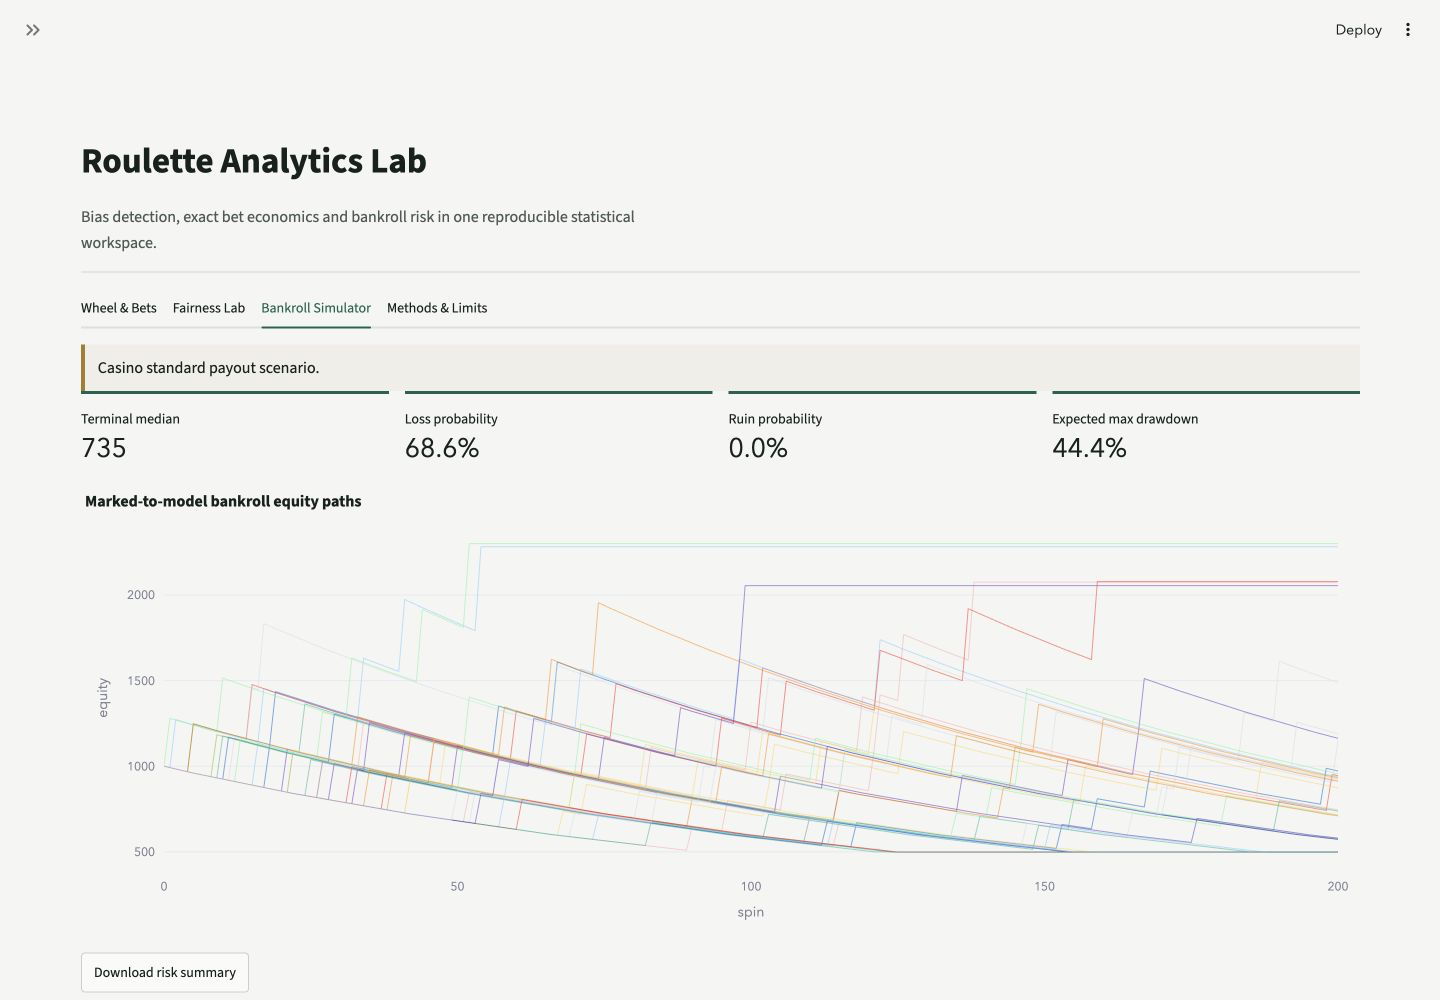
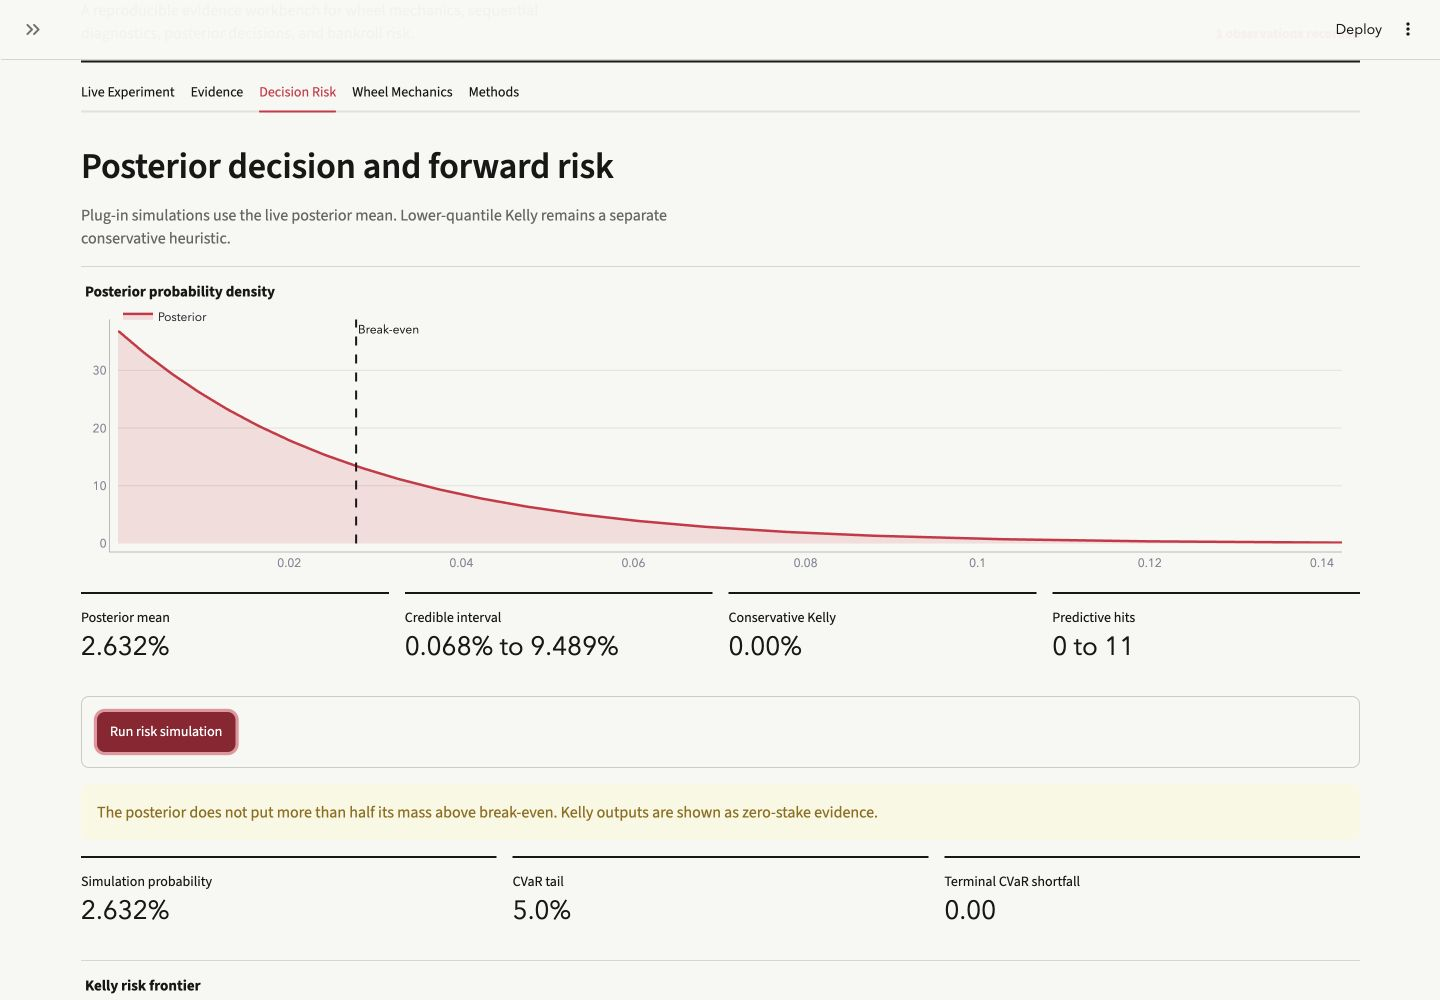
test: verify the v2 portfolio experience

diff --git a/tests/test_publication.py b/tests/test_publication.py
@@ -335,12 +335,13 @@ def test_release_visual_evidence_has_expected_dimensions_and_scope():
 
     record = (ROOT / "docs" / "visual_qa.md").read_text(encoding="utf-8")
     for phrase in [
-        "Wheel & Bets",
-        "Fairness Lab",
-        "Bankroll Simulator",
-        "Methods & Limits",
+        "Live Experiment",
+        "Evidence",
+        "Decision Risk",
+        "Wheel Mechanics",
+        "Methods",
         "390x844",
         "14 pages",
-        "WebSocket",
+        "console",
     ]:
         assert phrase in record

diff --git a/docs/deliverables_checklist.md b/docs/deliverables_checklist.md
@@ -1,30 +1,31 @@
 # Project 1 Deliverables Checklist
 
-This checklist maps the execution manual's Project 1 expectations to repository evidence.
+This manual matrix is limited to **Project 1: Roulette Analytics Lab**. Later portfolio projects are explicitly out of scope for this release and do not supply evidence for any row below.
 
-| Requirement | Deliverable | Concrete evidence | Status |
-| --- | --- | --- | --- |
-| Python reimplementation | Tested package and scripts | [`src/roulette_lab`](../src/roulette_lab), [`scripts`](../scripts), [`tests`](../tests) | Complete |
-| Source and personal contribution boundary | Independent implementation from the mathematical specification | [`provenance.md`](provenance.md) | Complete |
-| Kelly Criterion | Conditional full, half, and quarter Kelly | [`bets.py`](../src/roulette_lab/bets.py), [`bankroll.py`](../src/roulette_lab/bankroll.py), [`app.py`](../app.py) | Complete |
-| Chi-squared testing | Asymptotic and Monte Carlo global tests | [`statistics.py`](../src/roulette_lab/statistics.py), [`roulette_analytics.ipynb`](../notebooks/roulette_analytics.ipynb) | Complete |
-| Selection correction | Naive, Bonferroni, and maximum-count family-wise results | [`bias_tests.csv`](../outputs/tables/bias_tests.csv), [`technical_blog.md`](technical_blog.md) | Complete |
-| Random walk simulation | Running frequency and bankroll paths | [`03_lln_convergence.png`](../outputs/figures/03_lln_convergence.png), [`06_bankroll_risk.png`](../outputs/figures/06_bankroll_risk.png) | Complete |
-| Adjustable dashboard controls | Bankroll, odds, stop-loss, take-profit, paths, spins, seed, and strategy | [`app.py`](../app.py), [`dashboard.py`](../src/roulette_lab/dashboard.py) | Complete |
-| Real-time curves | Probability, residual, and bankroll charts | [`dashboard-desktop.png`](assets/dashboard-desktop.png), [`visual_qa.md`](visual_qa.md) | Complete |
-| Responsive design | Desktop and 390x844 evidence | [`dashboard-desktop.png`](assets/dashboard-desktop.png), [`dashboard-mobile.png`](assets/dashboard-mobile.png) | Complete |
-| Technical blog | Mathematics, implementation, results, and limits | [`technical_blog.md`](technical_blog.md) | Complete |
-| Full technical report | 4,500-5,000 prose words and 13-16 page A4 PDF | [`technical_report.md`](../report/technical_report.md), [`technical_report.pdf`](../report/technical_report.pdf) | Complete |
-| GitHub-ready repository | README, licence, lock file, commands, CI | [`README.md`](../README.md), [`LICENSE`](../LICENSE), [`requirements-lock.txt`](../requirements-lock.txt), [`reproducibility.yml`](../.github/workflows/reproducibility.yml) | Complete |
-| Code reproducibility | Fixed seeds and permanent cross-artifact checks | [`run_analysis.py`](../scripts/run_analysis.py), [`verify_artifacts.py`](../scripts/verify_artifacts.py) | Complete |
-| Data | Fair and biased teaching datasets with strict schema | [`example_unbiased_spins.csv`](../data/example_unbiased_spins.csv), [`example_biased_spins.csv`](../data/example_biased_spins.csv), [`README`](../data/README.md) | Complete |
-| Machine-readable results | Existing seven tables and six figures remain. The final release contains eleven tables and ten figures. | [`outputs/tables`](../outputs/tables), [`outputs/figures`](../outputs/figures) | Complete |
-| Correct interpretation | Negative expectation, post-selection bias, and probability uncertainty | [`technical_report.md`](../report/technical_report.md), [`technical_blog.md`](technical_blog.md) | Complete |
-| AI capability evidence | Assisted workflow plus verification boundary | [`ai_workflow.md`](ai_workflow.md) | Complete |
-| Application value | CV, PS, interview, contribution, and programme maps | [`application_materials.md`](application_materials.md) | Complete |
-| Responsible framing | No profit promise and explicit limitations | [`README.md`](../README.md), [`technical_report.md`](../report/technical_report.md), [`app.py`](../app.py) | Complete |
-| Online demonstration | Task 7 release checklist item | [Streamlit deployment target](https://roulette-analytics-lab.streamlit.app/) | Pending public-access verification |
+Existing seven tables and six figures remain. The final release contains eleven tables and ten figures.
+
+| Requirement | Code | Test | Output | Report | Dashboard | Status |
+| --- | --- | --- | --- | --- | --- | --- |
+| Python reimplementation | [package](../src/roulette_lab) | [test suite](../tests) | [tables](../outputs/tables) | [research report](../report/technical_report.pdf) | [Methods](../app.py) | Complete |
+| Contribution boundary | [provenance](provenance.md) | [publication test](../tests/test_publication.py) | [provenance checksum](provenance.md) | [research question](../report/technical_report.pdf) | [Methods](../app.py) | Complete |
+| Kelly Criterion | [bets](../src/roulette_lab/bets.py) | [bet tests](../tests/test_bets.py) | [kelly sensitivity](../outputs/tables/kelly_sensitivity.csv) | [posterior decisions](../report/technical_report.pdf) | [Decision Risk](../app.py) | Complete |
+| Chi-squared testing | [statistics](../src/roulette_lab/statistics.py) | [statistics tests](../tests/test_statistics.py) | [bias tests](../outputs/tables/bias_tests.csv) | [fixed-horizon inference](../report/technical_report.pdf) | [Evidence](../app.py) | Complete |
+| Selection correction | [dashboard](../src/roulette_lab/dashboard.py) | [dashboard tests](../tests/test_dashboard.py) | [bias tests](../outputs/tables/bias_tests.csv) | [selection correction](../report/technical_report.pdf) | [Evidence](../app.py) | Complete |
+| Random-walk and LLN simulation | [simulation](../src/roulette_lab/simulation.py) | [simulation tests](../tests/test_simulation.py) | [LLN figure](../outputs/figures/03_lln_convergence.png) | [probability contract](../report/technical_report.pdf) | [Live Experiment](../app.py) | Complete |
+| Sequential evidence and CUSUM | [sequential](../src/roulette_lab/sequential.py) | [sequential tests](../tests/test_sequential.py) | [sequential evidence](../outputs/tables/sequential_evidence.csv) | [sequential evidence](../report/technical_report.pdf) | [Evidence](../app.py) | Complete |
+| Posterior decision and CVaR | [decision](../src/roulette_lab/decision.py) | [decision tests](../tests/test_decision.py) | [posterior edge](../outputs/tables/posterior_edge.csv) | [posterior decisions](../report/technical_report.pdf) | [Decision Risk](../app.py) | Complete |
+| Adjustable controls | [app controls](../app.py) | [app tests](../tests/test_app.py) | [risk frontier](../outputs/tables/risk_frontier.csv) | [software design](../report/technical_report.pdf) | [live controls](assets/live-experiment.png) | Complete |
+| Live experiment and wheel | [experiment](../src/roulette_lab/experiment.py) | [component tests](../tests/test_roulette_component.py) | [history CSV](../data/example_unbiased_spins.csv) | [software design](../report/technical_report.pdf) | [settled wheel](assets/live-experiment.png) | Complete |
+| Real-time charts and downloads | [dashboard figures](../app.py) | [dashboard tests](../tests/test_dashboard.py) | [figures](../outputs/figures) | [risk frontier](../report/technical_report.pdf) | [desktop QA](assets/dashboard-desktop.png) | Complete |
+| Responsive design | [responsive CSS](../app.py) | [app tests](../tests/test_app.py) | [mobile capture](assets/dashboard-mobile.png) | [software design](../report/technical_report.pdf) | [visual QA](visual_qa.md) | Complete |
+| Teaching data | [strict CSV IO](../src/roulette_lab/io.py) | [IO tests](../tests/test_io_and_power.py) | [fair CSV](../data/example_unbiased_spins.csv) | [experimental design](../report/technical_report.pdf) | [CSV import](app.py) | Complete |
+| Notebook and report | [builders](../scripts) | [publication tests](../tests/test_publication.py) | [notebook](../notebooks/roulette_analytics.ipynb) | [PDF](../report/technical_report.pdf) | [Methods](../app.py) | Complete |
+| Reproducibility | [analysis runner](../scripts/run_analysis.py) | [artifact verifier](../scripts/verify_artifacts.py) | [all outputs](../outputs) | [methods](../report/technical_report.pdf) | [Methods](../app.py) | Complete |
+| Responsible framing | [dashboard copy](../app.py) | [publication tests](../tests/test_publication.py) | [methods output](../outputs/tables/posterior_edge.csv) | [limitations](../report/technical_report.pdf) | [Methods](../app.py) | Complete |
+| AI workflow | [workflow record](ai_workflow.md) | [publication tests](../tests/test_publication.py) | [review evidence](ai_workflow.md) | [provenance](../report/technical_report.pdf) | [Methods](../app.py) | Complete |
+| Application value | [application materials](application_materials.md) | [publication tests](../tests/test_publication.py) | [portfolio evidence](application_materials.md) | [application value](../report/technical_report.pdf) | [Methods](../app.py) | Complete |
+| Online demonstration | [deployment configuration](../.streamlit) | [app tests](../tests/test_app.py) | [QA screenshots](assets) | [software design](../report/technical_report.pdf) | [Streamlit target](https://roulette-analytics-lab.streamlit.app/) | Task 7 release checklist item; pending public-access verification |
 
 ## Release gate
 
-The release is ready only when all automated tests pass, the notebook executes, publication outputs regenerate without drift, the PDF renders cleanly, desktop and mobile dashboard views are checked, the public dashboard is reachable, and the final ZIP passes `unzip -t`. The external manifest records the archive checksum without creating a circular checksum inside the ZIP. The online demonstration remains pending public-access verification in Task 7 and is therefore still a release checklist item.
+Task 7 requires a clean deterministic rebuild, rendered PDF inspection, exact desktop and mobile captures, an anonymous public deployment check, and a `unzip -t` validated V2 archive. The external manifest remains outside the archive so its checksum is not circular.

diff --git a/docs/visual_qa.md b/docs/visual_qa.md
@@ -1,38 +1,40 @@
 # Visual QA Record
 
-## Dashboard desktop check
+## Local release check
 
-The final desktop review used a 1440x1000 viewport against the local Streamlit app on 13 September 2026. The four tabs were opened in sequence:
+The Task 7 review ran against the local Streamlit application at `http://127.0.0.1:8501/` on 20 September 2026. Browser console capture recorded zero errors and zero warnings. The release screenshots are exact viewport captures:
 
-- **Wheel & Bets:** the European straight-bet view showed a 2.70% standard house edge, expected return `-0.0270`, 35:1 payout, and a nonblank pocket-probability chart.
-- **Fairness Lab:** the built-in biased and unbiased states rendered, then both repository CSV files were uploaded through the visible file control. The unbiased upload selected pocket 32 and the biased upload selected pocket 17. Corrected and naive p-values changed with the source.
-- **Bankroll Simulator:** the estimated win probability was changed from `0.02703` to `0.06000`. The strategy was changed from flat to quarter Kelly, and the terminal metrics plus path chart refreshed.
-- **Methods & Limits:** expectation, maximum-count selection correction, Kelly's conditional assumptions, validation guidance, and the no-profit warning were all visible.
+| Capture | Viewport | Pixel result | Evidence |
+| --- | --- | --- | --- |
+| Desktop dashboard | 1440x1000 | 1,439,903 non-white pixels | [dashboard-desktop.png](assets/dashboard-desktop.png) |
+| Mobile dashboard | 390x844 | 329,159 non-white pixels | [dashboard-mobile.png](assets/dashboard-mobile.png) |
+| Settled live experiment | 1440x1000 | 758,538 dark rotor pixels and 30,647 crimson pixels | [live-experiment.png](assets/live-experiment.png) |
 
-The saved desktop image is `docs/assets/dashboard-desktop.png`. It is a 1440x1000 PNG. No browser console errors were present. One `WebSocket onclose` warning was recorded during a deliberate page reload; the app reconnected and rendered normally.
+## Desktop interaction check
 
-## Dashboard mobile check
+All five tabs rendered and were opened: **Live Experiment**, **Evidence**, **Decision Risk**, **Wheel Mechanics**, and **Methods**. The review also exercised a deterministic single spin, Batch 10, reset, both CSV teaching datasets, history and probability-table downloads, the no-edge decision state, CUSUM no-alarm and alarm states, responsive chart rendering, and Methods content.
 
-The responsive review used a 390x844 device viewport. An initial capture exposed clipped title and notice text, so the mobile CSS was revised to allow normal white-space, `overflow-wrap: anywhere`, smaller metric type, wrapping horizontal metric blocks, and a horizontally scrollable tab list. The final DOM measurements reported a 390-pixel viewport and 390-pixel document width. The title, supporting copy, metrics, scenario notice, and chart stay within the 358-pixel content column.
+- The default seeded single spin settled on `8`, matching `advance_experiment(new_experiment(20260912, 1000.0), ...)`.
+- The visual rotor was nonblank at 1279x466 CSS pixels, displayed all 37 European labels, and had removed its `is-spinning` class after settlement.
+- The six live controls kept identical frame-relative bounds during rotor animation. Browser viewport scrolling changed after Streamlit rerendering, but the controls did not shift relative to the rotor frame.
+- One initial miss produced the visible `No CUSUM alarm has crossed the declared threshold.` state. Importing `data/example_biased_spins.csv` displayed the CUSUM chart's `First alarm` marker. Both `example_unbiased_spins.csv` and `example_biased_spins.csv` displayed successful import states.
+- Running the no-observation/one-miss decision path displayed `The posterior does not put more than half its mass above break-even. Kelly outputs are shown as zero-stake evidence.`
+- Browser download events confirmed both `roulette_history.csv` and `wheel_probabilities.csv` controls.
 
-The final screenshot was captured through Chrome's device emulation after the built-in screenshot transport produced incorrect clipping metadata. It was inspected at original resolution and saved as `docs/assets/dashboard-mobile.png`, a true 390x844 PNG. The fourth tab remains available through the standard horizontal tab scroll on narrow screens; content does not overlap.
+## Mobile check
 
-## Online deployment status
+At exactly 390x844, `documentElement.clientWidth` and `scrollWidth` were both 390. The live layout stacked without document-level horizontal overflow; metric text remained contained; the wheel labels were visible; and the native `Scroll tabs right` control made the horizontally overflowing tab strip accessible, including the Methods tab. The live screenshot records the imported biased state so the high-information metric and chart layout are also represented at mobile width.
 
-The configured Streamlit target is [roulette-analytics-lab.streamlit.app](https://roulette-analytics-lab.streamlit.app/). The current endpoint presents an authentication boundary, so prior owner-session checks do not establish anonymous availability. Public access is pending public-access verification in Task 7. Until that release check runs, repository copy treats the URL as a deployment target rather than a public live demonstration.
+The browser environment did not request reduced motion (`matchMedia('(prefers-reduced-motion: reduce)').matches` was `false`). The component's reduced-motion implementation is covered by `tests/test_roulette_component.py`: its generated markup includes the `prefers-reduced-motion` media query, which removes rotor and ball transitions. This is an accepted environment limitation, not a claim that the browser preference was forced during this capture.
 
 ## PDF check
 
[1 lines of base64/hex data omitted]
+`report/technical_report.pdf` was rebuilt and rendered in full at 144 DPI. `pdfinfo` confirmed 14 unencrypted A4 pages. The report has 14 pages. A 14-page contact sheet and full-resolution pages 4 (dense probability equations), 5 (figures), 10 (posterior figure), and 14 (conclusion and references) were inspected. The review found no blank plots, clipped glyphs, orphan headings, unstable page numbering, or cropped references. Full rendered pages were 1191x1684 pixels.
 
-- A4 page size with consistent page numbers and footer rules;
-- readable equations, captions, labels, the six-row source table, and nine nonblank report figures;
-- unique figure numbering in order from Figure 1 through Figure 9;
-- `Probability Contract` at the start of page 4 with its first paragraph, not stranded on page 3;
-- complete opening text on pages 4 and 10, with no dropped characters, cropped text, broken glyphs, orphan headings, or overlaps;
-- a well-filled page 13 containing Application Value and Limitations, followed by Conclusion and References on page 14;
-- text extraction from all pages with every continuation starting at a complete source paragraph or figure caption.
+## Online deployment status
+
+The configured Streamlit target is [roulette-analytics-lab.streamlit.app](https://roulette-analytics-lab.streamlit.app/). Public anonymous verification is intentionally **pending public-access verification** at this source-QA stage. Repository copy is updated to a verified public status only after the external check completes. No WebSocket warning or error was recorded during this Task 7 browser capture.
 
 ## Accepted limitations
 
-Streamlit's tab strip scrolls horizontally on a phone because four descriptive labels cannot remain readable in 390 pixels. This is an intentional native interaction, not hidden overflow. Owner sessions can display Streamlit's management control over the lower corner; that control is not part of the application content assessed in the local screenshots.
+The tab strip intentionally scrolls horizontally at narrow widths so descriptive tab names remain readable. The local browser did not expose a reduced-motion preference override, so reduced-motion behavior is evidenced by the checked component CSS and unit test rather than a forced-preference visual capture.

diff --git a/task-7-report.md b/task-7-report.md
@@ -1,0 +1,14 @@
+# Task 7 Release Report
+
+## Source QA
+
+- Source baseline: `1c837c64a9a72912e56b7095b7f26fec2c31b53a` on `codex/roulette-v1`.
+- Deterministic gate: `.venv/bin/python -m pytest -q`, `scripts/run_analysis.py`, `scripts/build_notebook.py`, `scripts/build_report_pdf.py`, `scripts/verify_artifacts.py`, and fallback-git `diff --exit-code` all passed. The suite reported 326 passed tests.
+- Browser QA: `http://127.0.0.1:8501/`, desktop 1440x1000 and mobile 390x844. All five tabs, spin, Batch 10, reset, fair and biased imports, downloads, no-edge, no-alarm, CUSUM alarm, responsive layout, and Methods were checked. Console errors/warnings: 0/0.
+- Wheel evidence: 37 labels, 1279x466 CSS pixels, nonblank screenshot pixels, deterministic settled result `8`, and no frame-relative control movement during animation.
+- Screenshots: `docs/assets/dashboard-desktop.png`, `docs/assets/dashboard-mobile.png`, and `docs/assets/live-experiment.png`.
+- PDF QA: 14 A4 pages rebuilt and rendered at 144 DPI; contact sheet plus full-resolution pages 4, 5, 10, and 14 inspected without clipped glyphs, blank plots, orphan headings, or broken page numbering.
+
+## Pending External Release Evidence
+
+This report will be updated after the V2 archive commit, GitHub Actions result, anonymous Streamlit HTTP/public-access check, and final `HEAD == origin/main` comparison. At this point no public deployment claim has been made.
